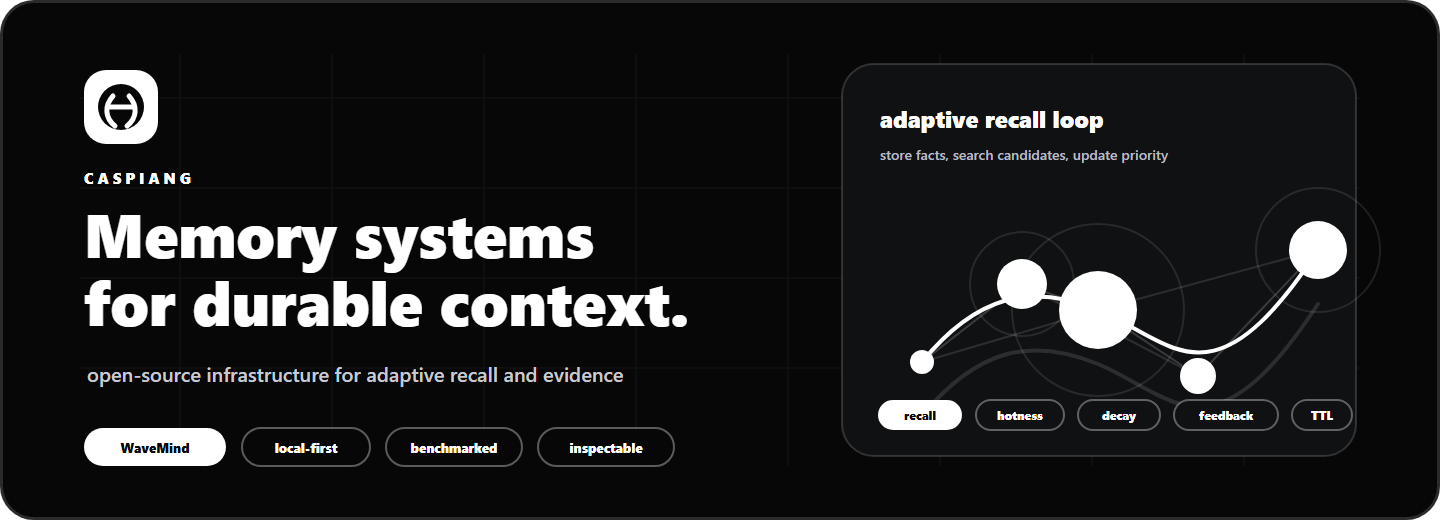
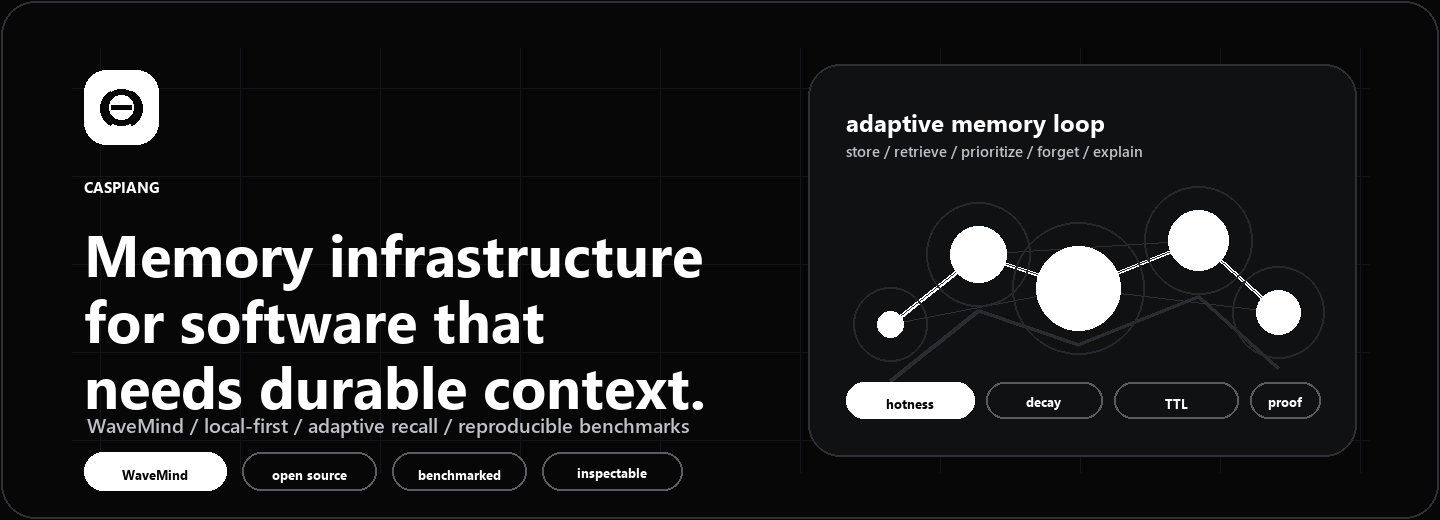
Modernize GitHub profile

diff --git a/README.md b/README.md
@@ -1,17 +1,18 @@
 <p align="center">
   <a href="https://github.com/CaspianG/wavemind">
-    <img src="./assets/header.png" alt="CaspianG builds memory systems for durable context" width="100%" />
+    <img src="./assets/header.png" alt="CaspianG builds memory infrastructure for durable context" width="100%" />
   </a>
 </p>
 
 <h1 align="center">CaspianG</h1>
 
 <p align="center">
-  <strong>I build open-source infrastructure for software that needs memory, context, and evidence.</strong>
+  <strong>Building open-source memory infrastructure for software that needs durable context.</strong><br />
+  Local-first systems, adaptive recall, reproducible benchmarks, and practical developer tools.
 </p>
 
 <p align="center">
-  <a href="https://github.com/CaspianG/wavemind"><img alt="WaveMind" src="https://img.shields.io/badge/WaveMind-dynamic%20memory-111111?style=for-the-badge"></a>
+  <a href="https://github.com/CaspianG/wavemind"><img alt="WaveMind" src="https://img.shields.io/badge/WaveMind-adaptive%20memory-111111?style=for-the-badge"></a>
   <a href="https://pypi.org/project/wavemind/"><img alt="PyPI" src="https://img.shields.io/pypi/v/wavemind?style=for-the-badge&label=PyPI&color=111111"></a>
   <a href="https://github.com/CaspianG/wavemind/actions/workflows/full-check.yml"><img alt="Checks" src="https://img.shields.io/github/actions/workflow/status/CaspianG/wavemind/full-check.yml?branch=main&style=for-the-badge&label=checks&color=111111"></a>
   <a href="https://github.com/CaspianG/wavemind/releases"><img alt="Release" src="https://img.shields.io/github/v/release/CaspianG/wavemind?style=for-the-badge&label=release&color=111111"></a>
@@ -33,27 +34,29 @@
 
 <table>
   <tr>
-    <td width="50%" valign="top">
-      <h2>Current Bet</h2>
+    <td width="61%" valign="top">
+      <h2>What I am building</h2>
       <p>
-        The next useful layer after vector search is adaptive memory:
-        context that can be stored, recalled, prioritized, corrected,
-        forgotten, inspected, and benchmarked.
+        <a href="https://github.com/CaspianG/wavemind"><strong>WaveMind</strong></a>
+        is a memory engine for long-running software: assistants, research
+        notebooks, internal copilots, analyst tools, support systems, and
+        developer workflows.
       </p>
       <p>
-        That is the reason I am building
-        <a href="https://github.com/CaspianG/wavemind"><strong>WaveMind</strong></a>.
+        It starts with normal retrieval, then adds memory behavior on top:
+        hotness, decay, TTL, tags, namespaces, feedback, corrections,
+        provenance, graph recall, and benchmarked failure cases.
       </p>
     </td>
-    <td width="50%" valign="top">
-      <h2>What I Ship</h2>
-      <ul>
-        <li>Local-first developer tools.</li>
-        <li>Memory and retrieval systems.</li>
-        <li>FastAPI, Python, SQLite, PostgreSQL, Redis, Docker.</li>
-        <li>Benchmarks, CI gates, and reproducible reports.</li>
-        <li>Simple product surfaces for complex infrastructure.</li>
-      </ul>
+    <td width="39%" valign="top">
+      <h2>Start here</h2>
+      <p><strong>Install</strong></p>
+      <pre><code>pip install wavemind</code></pre>
+      <p><strong>Run a local demo</strong></p>
+      <pre><code>wavemind demo</code></pre>
+      <p>
+        <a href="https://github.com/CaspianG/wavemind#user-content-quick-start">Read the 3-command Quick Start</a>
+      </p>
     </td>
   </tr>
 </table>
@@ -64,59 +67,36 @@
   </a>
 </p>
 
-## Main Project
+## Why WaveMind Exists
 
-<table>
-  <tr>
-    <td width="58%" valign="top">
-      <h3><a href="https://github.com/CaspianG/wavemind">WaveMind</a></h3>
-      <p>
-        WaveMind is a memory engine for long-running software: assistants,
-        research notebooks, internal copilots, support systems, analyst tools,
-        and developer agents.
-      </p>
-      <p>
-        Instead of returning static top-k vectors only, it adds memory behavior:
-        hotness, decay, TTL, tags, namespaces, feedback, provenance, graph recall,
-        and production-oriented benchmarks.
-      </p>
-      <p>
-        <a href="https://github.com/CaspianG/wavemind"><strong>Repository</strong></a>
-        &nbsp;/&nbsp;
-        <a href="https://github.com/CaspianG/wavemind#user-content-quick-start">Install</a>
-        &nbsp;/&nbsp;
-        <a href="https://github.com/CaspianG/wavemind#user-content-benchmark">Benchmarks</a>
-        &nbsp;/&nbsp;
-        <a href="https://github.com/CaspianG/wavemind/issues">Issues</a>
-      </p>
-    </td>
-    <td width="42%" valign="top">
-      <h3>Why It Matters</h3>
-      <ul>
-        <li>Useful facts should become easier to recall.</li>
-        <li>Old or corrected facts should lose priority.</li>
-        <li>Memory should be debuggable, not mystical.</li>
-        <li>Claims should be backed by runnable evidence.</li>
-      </ul>
-    </td>
-  </tr>
-</table>
+Static vector search is a base layer. It can find similar text, but it does not
+decide what should stay important, what should fade, what was corrected, or why
+a memory was returned.
 
-## Focus Areas
+WaveMind is built around a different contract:
+
+| Static retrieval | Adaptive memory |
+| --- | --- |
+| Similarity decides the top result. | Similarity finds candidates, then memory state changes ranking. |
+| Old and corrected facts can keep winning. | TTL, decay, feedback, and corrections can reduce priority. |
+| Context is hard to inspect. | Returned memories include metadata, provenance, and scoring signals. |
+| Benchmarks often stop at retrieval. | Agent-memory scenarios test stale facts, namespace leaks, latency, and coherence. |
+
+## Current Focus
 
 | Area | Direction |
 | --- | --- |
-| Adaptive memory | Recall changes with use, time, feedback, corrections, and scope. |
-| Retrieval systems | Vector search is a base layer; production memory also needs priority and provenance. |
-| Local-first infrastructure | Developers should own their storage, backups, indexes, and migration path. |
-| Benchmarks | Every serious claim should have a reproducible test behind it. |
-| Product quality | The first working path should be simple before the system becomes deep. |
+| Scale | ANN indexes, sharding by namespace, cache-aware recall, and production load tests. |
+| Memory OS | Background consolidation, hot-query prewarm, forgetting plans, and operational policies. |
+| Benchmarks | LoCoMo, LongMemEval-style retrieval, agent coherence, latency curves, and competitor baselines. |
+| Integrations | LangChain, LlamaIndex, HTTP API, CLI, Docker, and examples for real workflows. |
+| Product surface | Simple local demos first, then deeper tooling for inspecting memory behavior. |
 
 ## Selected Work
 
 | Project | Focus | Status |
 | --- | --- | --- |
-| [WaveMind](https://github.com/CaspianG/wavemind) | Dynamic long-term memory for software with durable context. | Active |
+| [WaveMind](https://github.com/CaspianG/wavemind) | Adaptive long-term memory for software with durable context. | Active |
 | [focus-flow](https://github.com/CaspianG/focus-flow) | Minimal desktop focus timer for deep-work sessions. | Stable |
 | [CORECITY](https://github.com/CaspianG/CORECITY) | Browser game concept around a living market mechanic. | Public archive |
 
